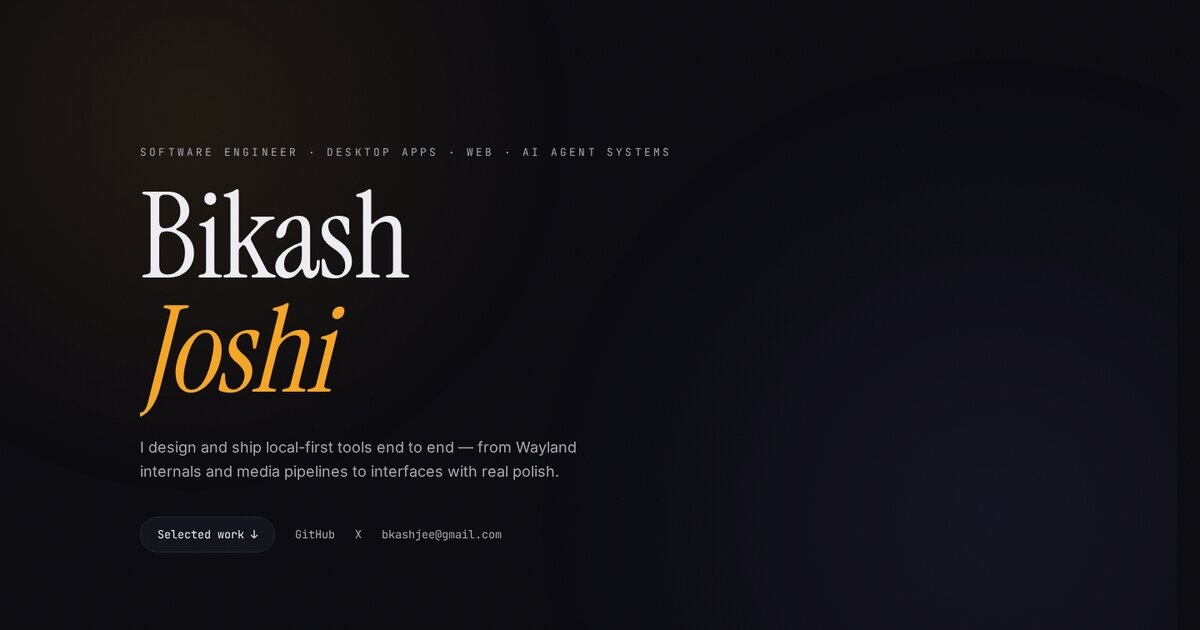
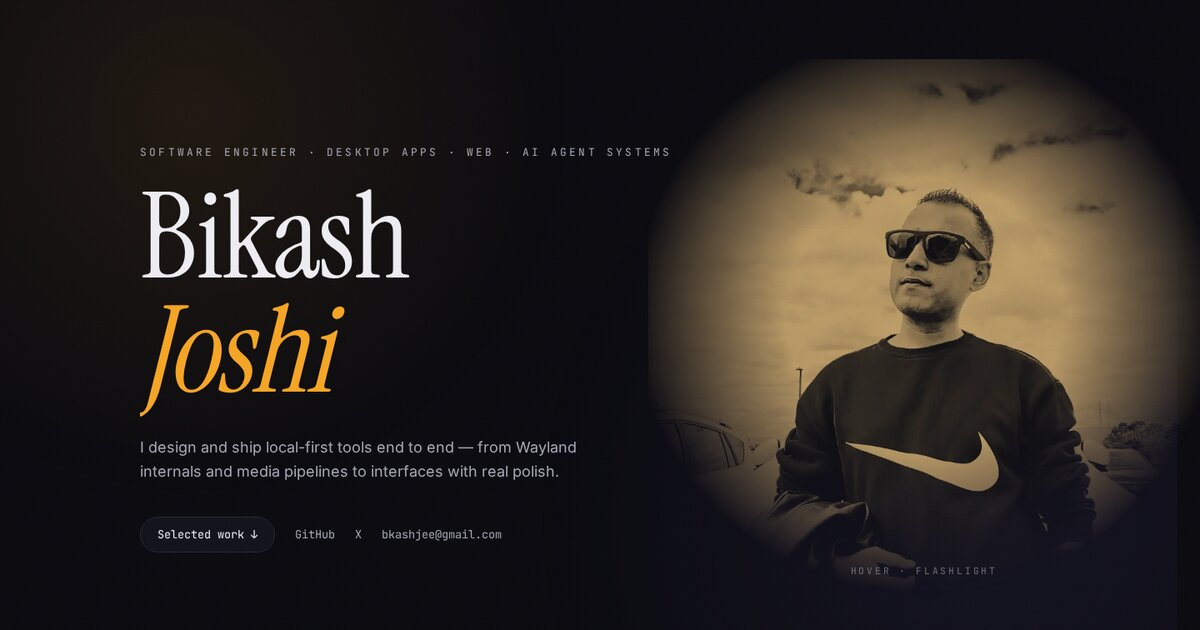
feat: interactive hero portrait and polish pass
Hero now carries an amber-duotone portrait that fades into the background
through a radial mask; hovering it acts as a flashlight, revealing the full-
color photo through a spring-driven clip-path spotlight while the portrait
leans toward the pointer. Also: pointer-trailing ambient glow, hairline
scroll-progress bar, active-section underline in the nav, diagonal shine
sweep on case-study images, copy-email button in the footer, and a fresh
OG image. All motion remains disabled under prefers-reduced-motion.

Changed region(s): [[0.5242, 0.0905, 1.0, 0.8746], [0.7092, 0.8444, 0.7708, 0.9349]]

diff --git a/src/components/HeroPortrait.tsx b/src/components/HeroPortrait.tsx
@@ -1,0 +1,89 @@
+import { useRef, type PointerEvent } from 'react'
+import { motion, useMotionValue, useSpring, useMotionTemplate } from 'motion/react'
+import { useMotionPref } from '../motion/useMotionPref'
+
+const DUO = '/assets/portrait-duo.webp'
+const COLOR = '/assets/portrait-color.webp'
+
+/**
+ * Amber-duotone portrait that melts into the hero background through a soft
+ * radial mask. Moving the pointer over it acts as a flashlight: a spotlight
+ * clip reveals the full-color photo underneath, while the whole portrait
+ * leans a few degrees toward the cursor. Static duotone under reduced motion.
+ */
+export function HeroPortrait() {
+  const reduced = useMotionPref()
+  const ref = useRef<HTMLDivElement>(null)
+
+  const mx = useMotionValue(0.5)
+  const my = useMotionValue(0.45)
+  const radius = useMotionValue(0)
+  const x = useSpring(mx, { stiffness: 90, damping: 20 })
+  const y = useSpring(my, { stiffness: 90, damping: 20 })
+  const r = useSpring(radius, { stiffness: 160, damping: 24 })
+
+  const rotateY = useSpring(useMotionValue(0), { stiffness: 60, damping: 18 })
+  const rotateX = useSpring(useMotionValue(0), { stiffness: 60, damping: 18 })
+
+  const clipPath = useMotionTemplate`circle(calc(${r} * 1px) at calc(${x} * 100%) calc(${y} * 100%))`
+
+  const onMove = (e: PointerEvent<HTMLDivElement>) => {
+    const rect = ref.current?.getBoundingClientRect()
+    if (!rect) return
+    const nx = (e.clientX - rect.left) / rect.width
+    const ny = (e.clientY - rect.top) / rect.height
+    mx.set(nx)
+    my.set(ny)
+    radius.set(rect.width * 0.16)
+    rotateY.set((nx - 0.5) * 7)
+    rotateX.set((0.5 - ny) * 7)
+  }
+  const onLeave = () => {
+    radius.set(0)
+    rotateY.set(0)
+    rotateX.set(0)
+  }
+
+  const mask = {
+    maskImage: 'radial-gradient(60% 58% at 50% 46%, black 42%, transparent 88%)',
+    WebkitMaskImage: 'radial-gradient(60% 58% at 50% 46%, black 42%, transparent 88%)',
+  } as const
+
+  if (reduced) {
+    return (
+      <div className="pointer-events-none absolute inset-y-0 right-0 hidden w-[46%] items-center lg:flex" aria-hidden="false">
+        <img src={DUO} width={1000} height={1000} alt="Portrait of Bikash Joshi" className="w-full" style={mask} />
+      </div>
+    )
+  }
+
+  return (
+    <div className="absolute inset-y-0 right-0 hidden w-[46%] items-center lg:flex" style={{ perspective: 1400 }}>
+      <motion.div
+        ref={ref}
+        onPointerMove={onMove}
+        onPointerLeave={onLeave}
+        className="relative w-full cursor-crosshair"
+        style={{ rotateX, rotateY }}
+        initial={{ opacity: 0, scale: 0.96 }}
+        animate={{ opacity: 1, scale: 1 }}
+        transition={{ duration: 1.2, delay: 0.5, ease: [0.22, 1, 0.36, 1] }}
+      >
+        <img src={DUO} width={1000} height={1000} alt="Portrait of Bikash Joshi" className="block w-full" style={mask} fetchPriority="high" />
+        <motion.img
+          src={COLOR}
+          width={1000}
+          height={1000}
+          alt=""
+          aria-hidden="true"
+          className="absolute inset-0 block w-full"
+          style={{ ...mask, clipPath }}
+          draggable={false}
+        />
+        <p className="pointer-events-none absolute bottom-[6%] left-1/2 -translate-x-1/2 font-mono text-[0.7rem] uppercase tracking-[0.25em] text-fg-faint">
+          hover · flashlight
+        </p>
+      </motion.div>
+    </div>
+  )
+}

diff --git a/src/components/Footer.tsx b/src/components/Footer.tsx
@@ -1,5 +1,28 @@
+import { useState } from 'react'
 import { identity } from '../content/projects'
 import { Reveal } from '../motion/Reveal'
+
+function CopyEmail() {
+  const [copied, setCopied] = useState(false)
+  const copy = async () => {
+    try {
+      await navigator.clipboard.writeText(identity.email)
+      setCopied(true)
+      setTimeout(() => setCopied(false), 1600)
+    } catch {
+      /* clipboard unavailable; the mailto link still works */
+    }
+  }
+  return (
+    <button
+      type="button"
+      onClick={copy}
+      className="rounded-full border border-line bg-surface px-4 py-1.5 font-mono text-[0.78rem] text-fg-dim transition-colors hover:border-accent hover:text-accent"
+    >
+      {copied ? 'Copied ✓' : 'Copy email'}
+    </button>
+  )
+}
 
 export function Footer() {
   return (
@@ -8,12 +31,15 @@ export function Footer() {
       <div className="mx-auto max-w-6xl px-6">
         <Reveal>
           <p className="font-mono text-[0.8rem] uppercase tracking-[0.25em] text-accent">Contact</p>
-          <a
-            href={`mailto:${identity.email}`}
-            className="mt-4 inline-block font-display text-[clamp(1.75rem,5vw,4rem)] leading-tight text-fg transition-colors hover:text-accent"
-          >
-            {identity.email}
-          </a>
+          <div className="mt-4 flex flex-wrap items-center gap-x-6 gap-y-3">
+            <a
+              href={`mailto:${identity.email}`}
+              className="inline-block font-display text-[clamp(1.75rem,5vw,4rem)] leading-tight text-fg transition-colors hover:text-accent"
+            >
+              {identity.email}
+            </a>
+            <CopyEmail />
+          </div>
         </Reveal>
         <Reveal delay={0.1}>
           <div className="mt-10 flex flex-wrap items-center gap-6 font-mono text-[0.85rem] text-fg-dim">

diff --git a/src/components/Hero.tsx b/src/components/Hero.tsx
@@ -2,13 +2,17 @@ import { motion } from 'motion/react'
 import { identity } from '../content/projects'
 import { RevealLines, Reveal } from '../motion/Reveal'
 import { useMotionPref } from '../motion/useMotionPref'
+import { HeroPortrait } from './HeroPortrait'
 
 export function Hero() {
   const reduced = useMotionPref()
   return (
     <section id="top" className="relative flex min-h-svh flex-col justify-center overflow-clip">
       <div className="ambient absolute inset-0 -z-10" aria-hidden="true" />
-      <div className="mx-auto w-full max-w-6xl px-6 pt-24 pb-16">
+      <HeroPortrait />
+      {/* pointer-events-none so the full-width text block doesn't swallow the
+          portrait's hover; interactive children re-enable themselves. */}
+      <div className="pointer-events-none relative mx-auto w-full max-w-6xl px-6 pt-24 pb-16">
         <Reveal delay={0.05}>
           <p className="mb-6 font-mono text-[0.8rem] uppercase tracking-[0.25em] text-fg-dim">
             {identity.role} · desktop apps · web · AI agent systems
@@ -25,7 +29,7 @@ export function Hero() {
           <p className="text-lg leading-relaxed text-fg-dim">{identity.bio}</p>
         </Reveal>
         <Reveal delay={0.45} className="mt-10">
-          <div className="flex flex-wrap items-center gap-6 font-mono text-[0.85rem]">
+          <div className="pointer-events-auto flex flex-wrap items-center gap-6 font-mono text-[0.85rem]">
             <a href="#work" className="rounded-full border border-line bg-surface px-5 py-2.5 text-fg transition-colors hover:border-accent hover:text-accent">
               Selected work ↓
             </a>

diff --git a/src/motion/PointerGlow.tsx b/src/motion/PointerGlow.tsx
@@ -1,0 +1,38 @@
+import { useEffect } from 'react'
+import { motion, useMotionValue, useSpring } from 'motion/react'
+import { useMotionPref } from './useMotionPref'
+
+/**
+ * A soft light that trails the pointer across the page. Purely ambient:
+ * pointer-events none, skipped for reduced motion and touch devices.
+ */
+export function PointerGlow() {
+  const reduced = useMotionPref()
+  const mx = useMotionValue(-600)
+  const my = useMotionValue(-600)
+  const x = useSpring(mx, { stiffness: 60, damping: 18, mass: 0.8 })
+  const y = useSpring(my, { stiffness: 60, damping: 18, mass: 0.8 })
+
+  useEffect(() => {
+    if (reduced || !window.matchMedia('(pointer: fine)').matches) return
+    const onMove = (e: PointerEvent) => {
+      mx.set(e.clientX)
+      my.set(e.clientY)
+    }
+    window.addEventListener('pointermove', onMove, { passive: true })
+    return () => window.removeEventListener('pointermove', onMove)
+  }, [reduced, mx, my])
+
+  if (reduced) return null
+  return (
+    <motion.div
+      aria-hidden="true"
+      className="pointer-events-none fixed left-0 top-0 z-0 h-[38rem] w-[38rem] -translate-x-1/2 -translate-y-1/2 rounded-full"
+      style={{
+        x,
+        y,
+        background: 'radial-gradient(closest-side, color-mix(in oklab, var(--color-accent) 7%, transparent), transparent 70%)',
+      }}
+    />
+  )
+}

diff --git a/src/components/Nav.tsx b/src/components/Nav.tsx
@@ -51,11 +51,17 @@ export function Nav() {
             <Magnetic key={a.id} strength={4}>
               <a
                 href={`#${a.id}`}
-                className={`rounded px-2 py-1 font-mono text-[0.8rem] tracking-wide transition-colors sm:px-3 ${
+                className={`relative rounded px-2 py-1 font-mono text-[0.8rem] tracking-wide transition-colors sm:px-3 ${
                   active === a.id ? 'text-accent' : 'text-fg-dim hover:text-fg'
                 }`}
               >
                 {a.label}
+                <span
+                  aria-hidden="true"
+                  className={`absolute inset-x-2 -bottom-0.5 h-px bg-accent transition-transform duration-300 sm:inset-x-3 ${
+                    active === a.id ? 'scale-x-100' : 'scale-x-0'
+                  }`}
+                />
               </a>
             </Magnetic>
           ))}

diff --git a/src/styles/index.css b/src/styles/index.css
@@ -91,6 +91,28 @@ body {
   background: radial-gradient(60% 60% at 50% 50%, color-mix(in oklab, var(--color-violet) 16%, transparent), transparent 75%);
 }
 
+/* Diagonal light sweep across an image on hover. */
+.shine {
+  position: relative;
+}
+.shine::after {
+  content: '';
+  position: absolute;
+  inset: 0;
+  background: linear-gradient(115deg, transparent 38%, rgb(255 255 255 / 0.09) 50%, transparent 62%);
+  transform: translateX(-110%);
+  pointer-events: none;
+}
+.shine:hover::after {
+  transform: translateX(110%);
+  transition: transform 0.9s cubic-bezier(0.22, 1, 0.36, 1);
+}
+@media (prefers-reduced-motion: reduce) {
+  .shine::after {
+    display: none;
+  }
+}
+
 /* Underline sweep for inline links. */
 .link-sweep {
   background-image: linear-gradient(currentColor, currentColor);

diff --git a/src/components/CaseStudy.tsx b/src/components/CaseStudy.tsx
@@ -14,7 +14,7 @@ export function CaseStudy({ study, flip }: { study: CaseStudyData; flip: boolean
         <div className={`lg:col-span-7 ${flip ? 'lg:order-2' : ''}`}>
           <Parallax className="relative">
             <div className={`glow-${study.glow} absolute -inset-12 -z-10`} aria-hidden="true" />
-            <figure className="overflow-hidden rounded-xl border border-line bg-surface shadow-2xl shadow-black/50">
+            <figure className="shine overflow-hidden rounded-xl border border-line bg-surface shadow-2xl shadow-black/50">
               <img
                 src={primary.src}
                 width={primary.width}

diff --git a/src/App.tsx b/src/App.tsx
@@ -2,6 +2,8 @@ import { useEffect } from 'react'
 import Lenis from 'lenis'
 import { caseStudies } from './content/projects'
 import { useMotionPref } from './motion/useMotionPref'
+import { PointerGlow } from './motion/PointerGlow'
+import { ScrollProgress } from './motion/ScrollProgress'
 import { Nav } from './components/Nav'
 import { Hero } from './components/Hero'
 import { SectionHeading } from './components/SectionHeading'
@@ -32,6 +34,8 @@ export default function App() {
 
   return (
     <div className="grain">
+      <ScrollProgress />
+      <PointerGlow />
       <Nav />
       <main>
         <Hero />

diff --git a/src/motion/ScrollProgress.tsx b/src/motion/ScrollProgress.tsx
@@ -1,0 +1,17 @@
+import { motion, useScroll, useSpring } from 'motion/react'
+import { useMotionPref } from './useMotionPref'
+
+/** Hairline reading-progress bar pinned above the nav. */
+export function ScrollProgress() {
+  const reduced = useMotionPref()
+  const { scrollYProgress } = useScroll()
+  const scaleX = useSpring(scrollYProgress, { stiffness: 140, damping: 30, restDelta: 0.001 })
+  if (reduced) return null
+  return (
+    <motion.div
+      aria-hidden="true"
+      className="fixed inset-x-0 top-0 z-[70] h-px origin-left bg-accent/80"
+      style={{ scaleX }}
+    />
+  )
+}

diff --git a/src/components/About.tsx b/src/components/About.tsx
@@ -10,8 +10,8 @@ export function About() {
         <Reveal className="lg:col-span-3">
           <img
             src="/assets/profile.webp"
-            width={400}
-            height={400}
+            width={600}
+            height={600}
             alt="Portrait of Bikash Joshi"
             loading="lazy"
             className="w-40 rounded-xl border border-line lg:w-full lg:max-w-[220px]"
